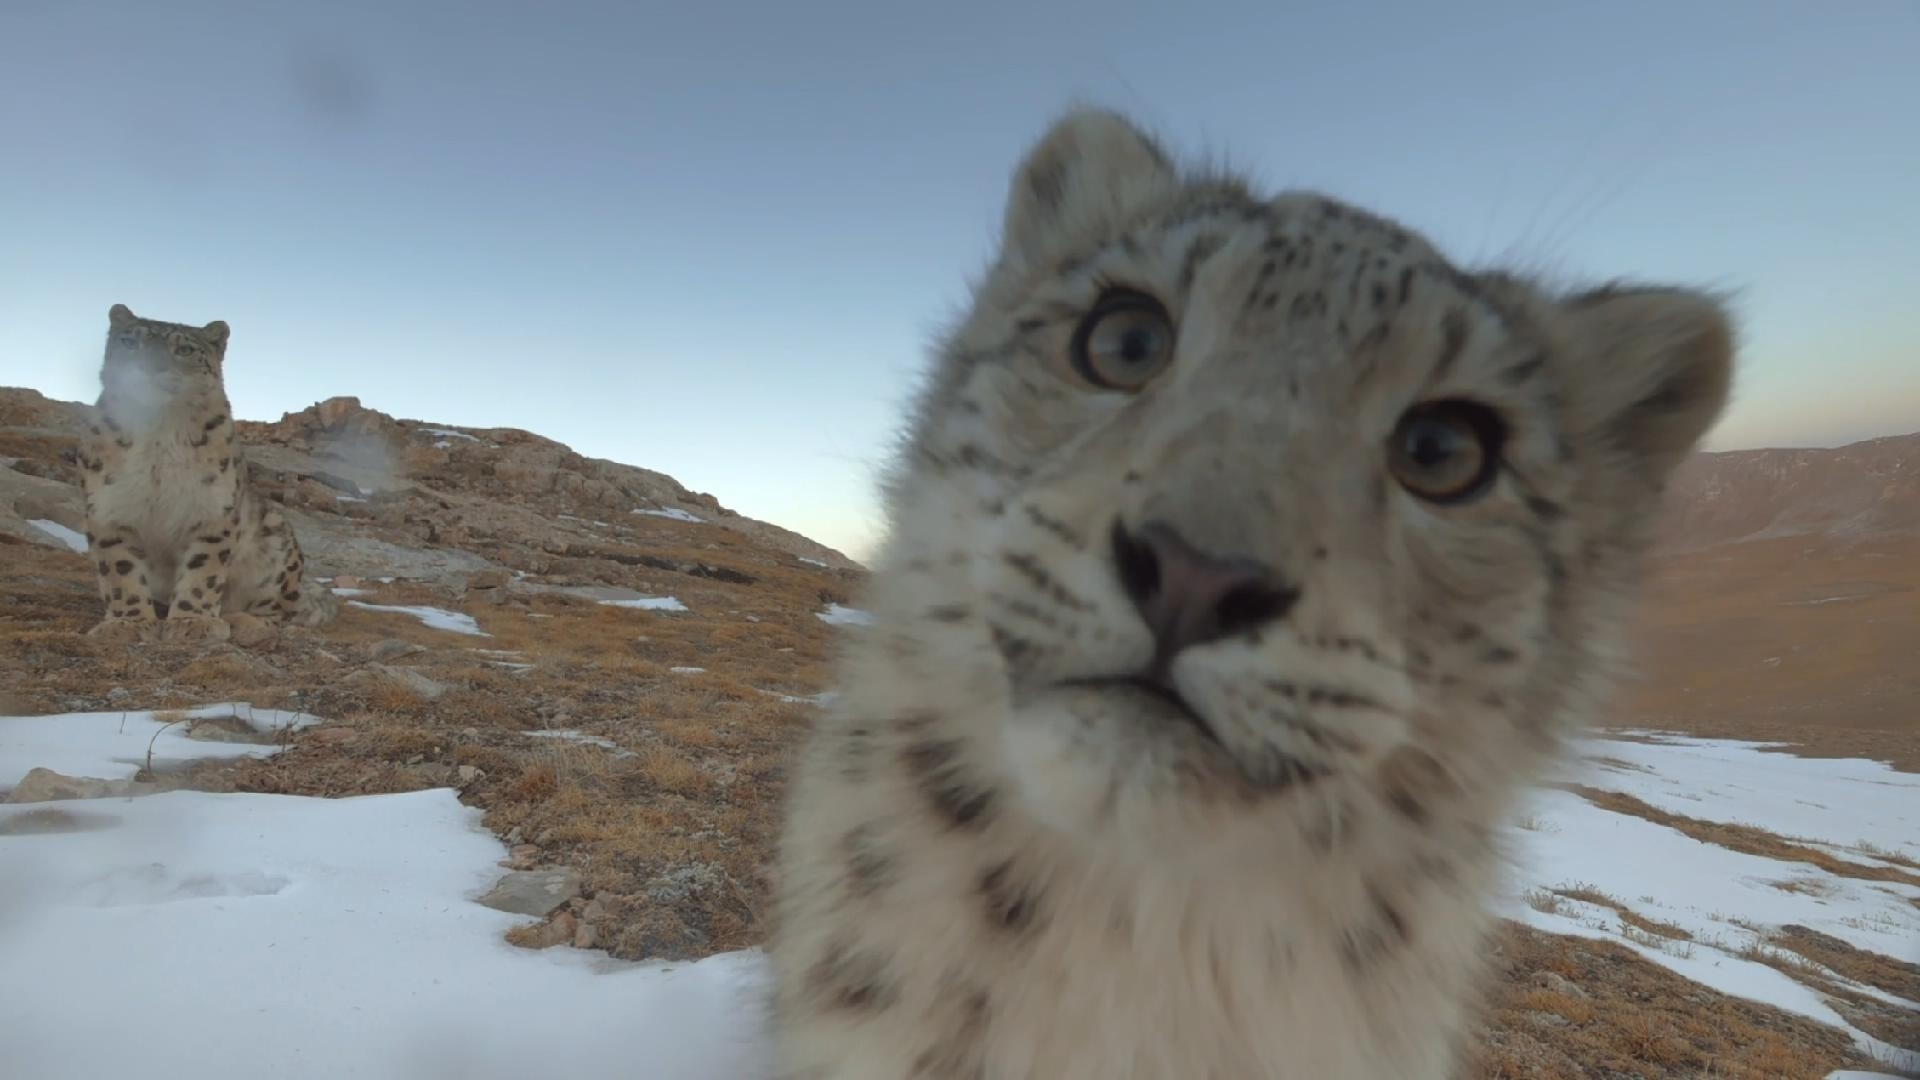
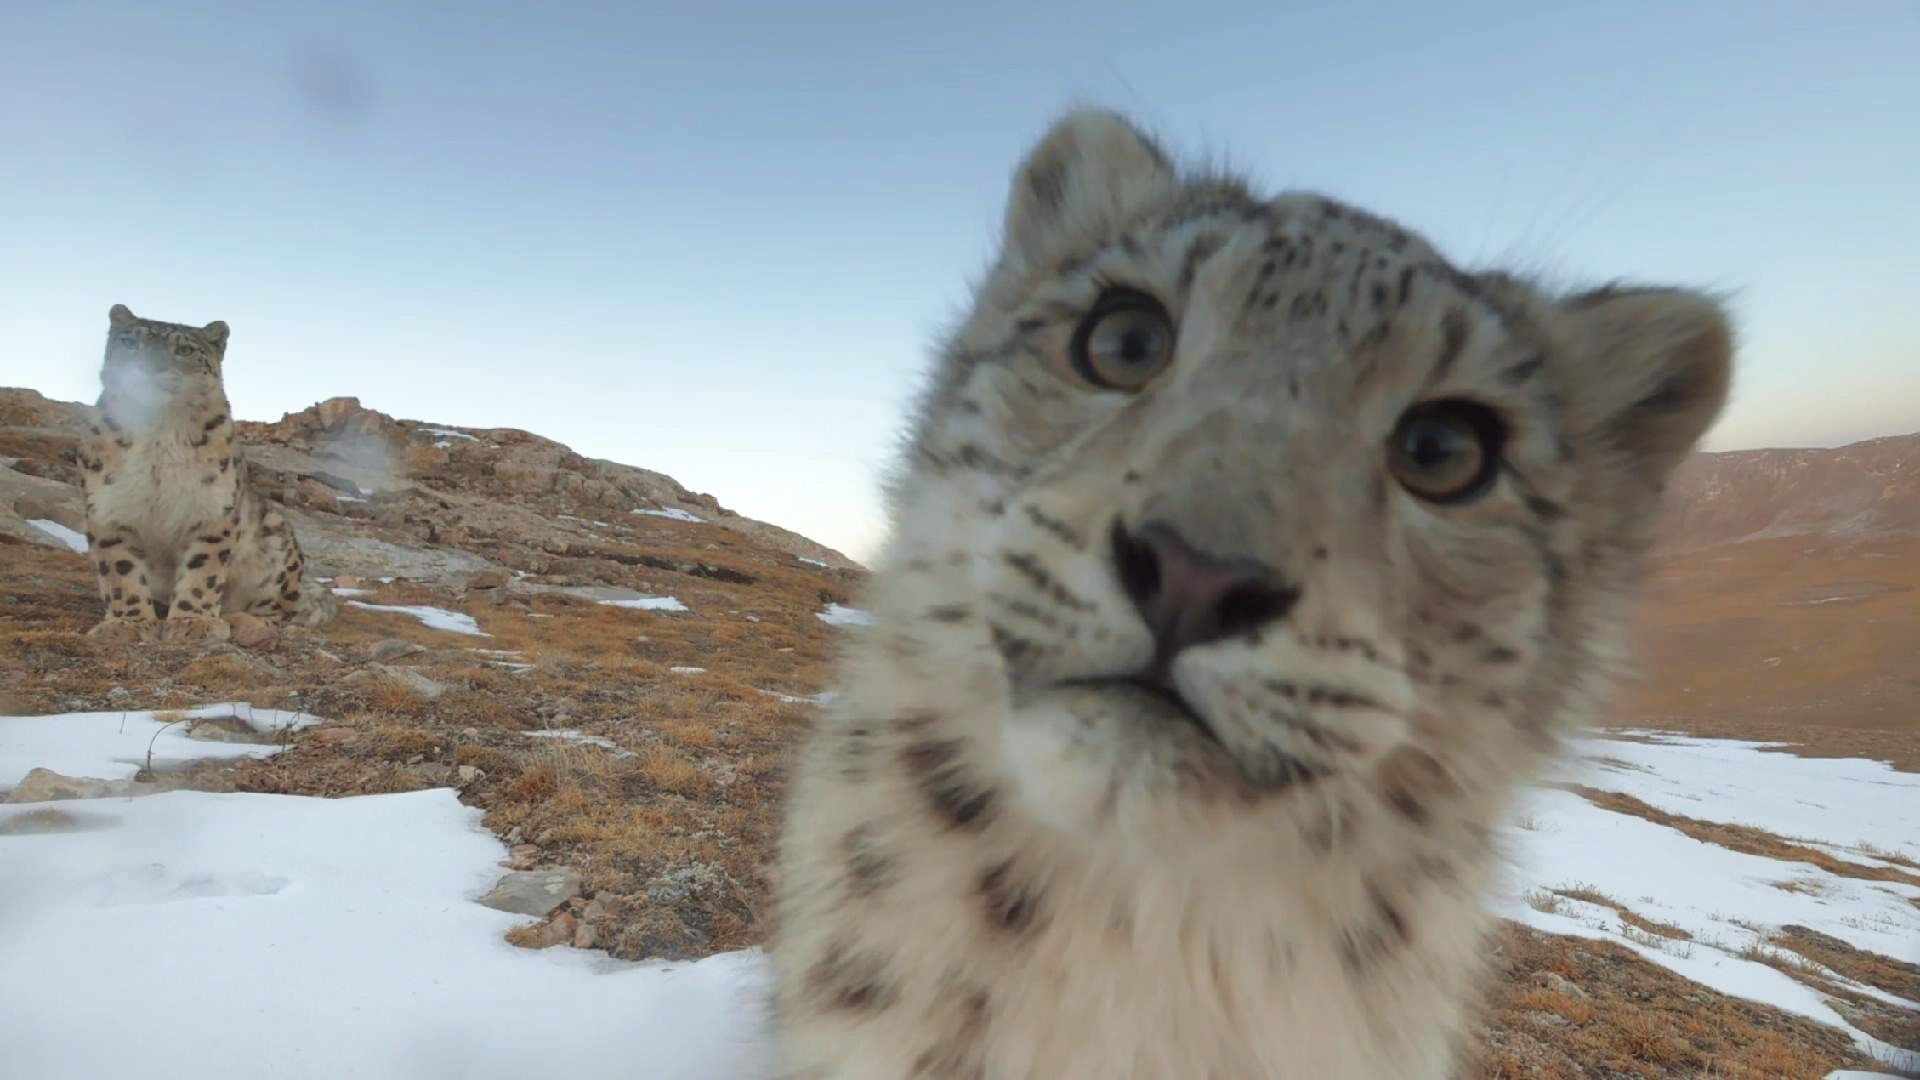
update

diff --git a/README.md b/README.md
@@ -14,6 +14,6 @@ Here are some ideas to get you started:
 - 😄 Pronouns: ...
 - ⚡ Fun fact: ...
 -->
-![芝士雪豹](images/xuebao03.jpg)
-<!--<img src="images/xuebao03.jpg" alt="芝士雪豹" width="50%">-->
+<!--![芝士雪豹](images/xuebao03.jpg)-->
+<img src="images/xuebao03.jpg" alt="芝士雪豹" width="70%">
 
